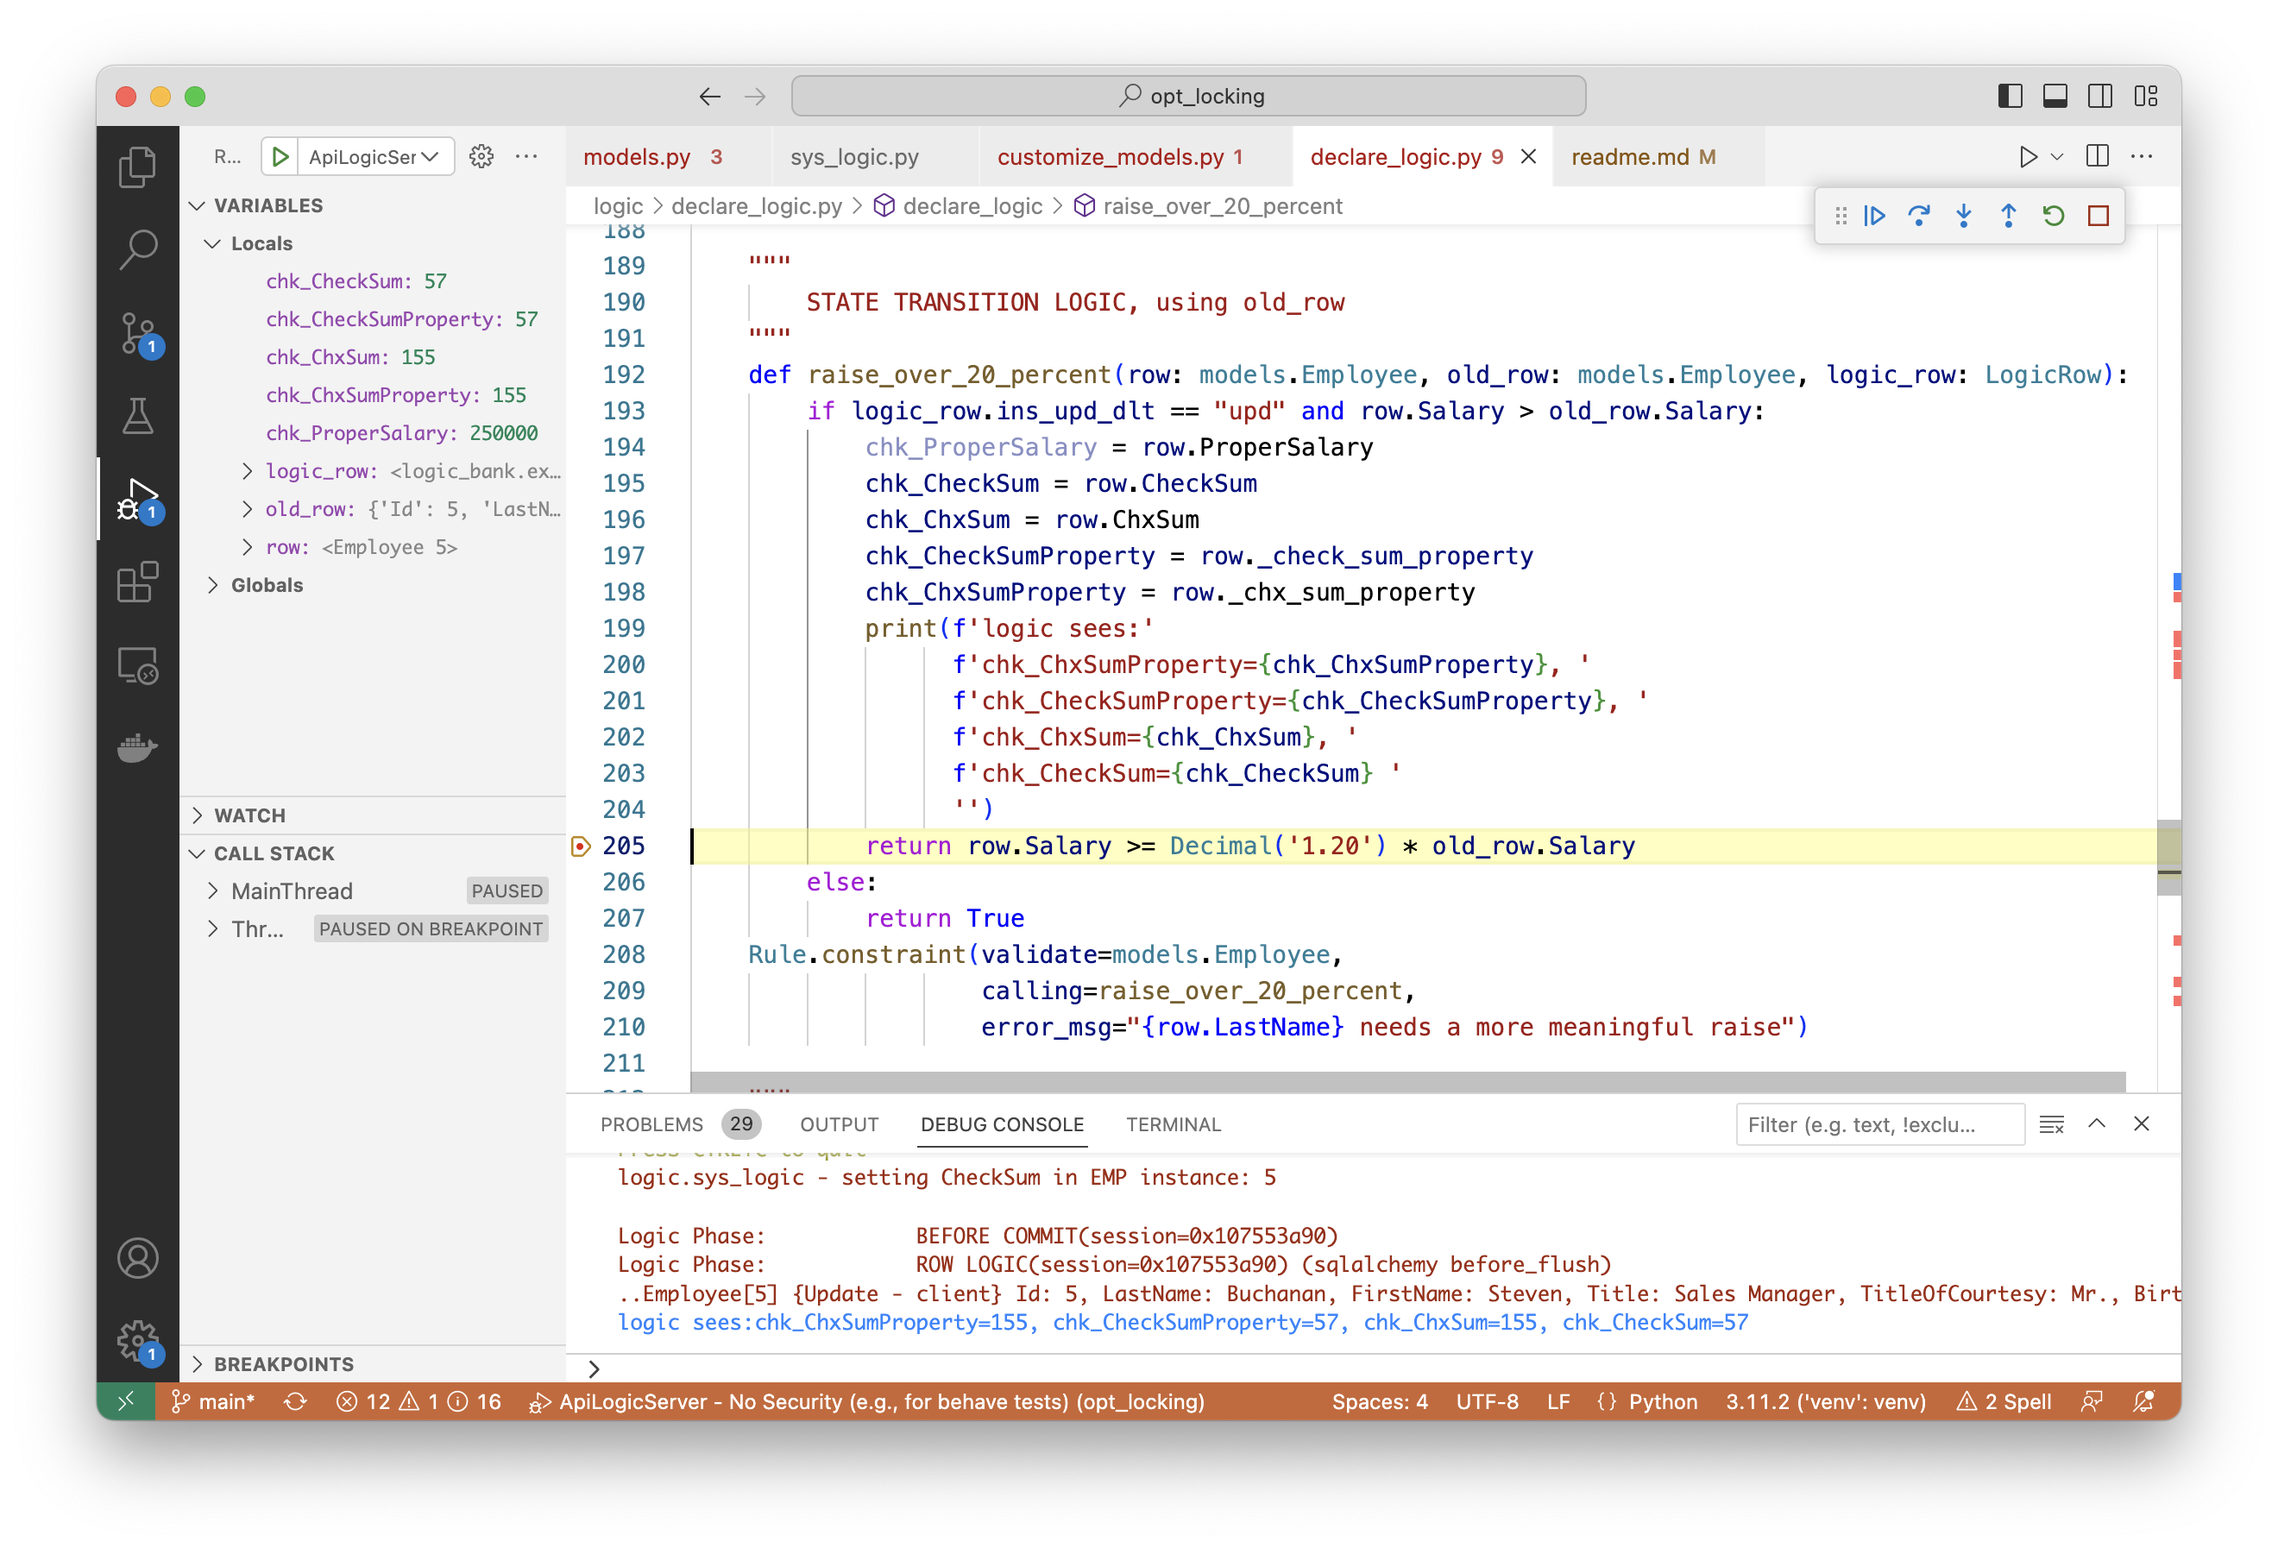
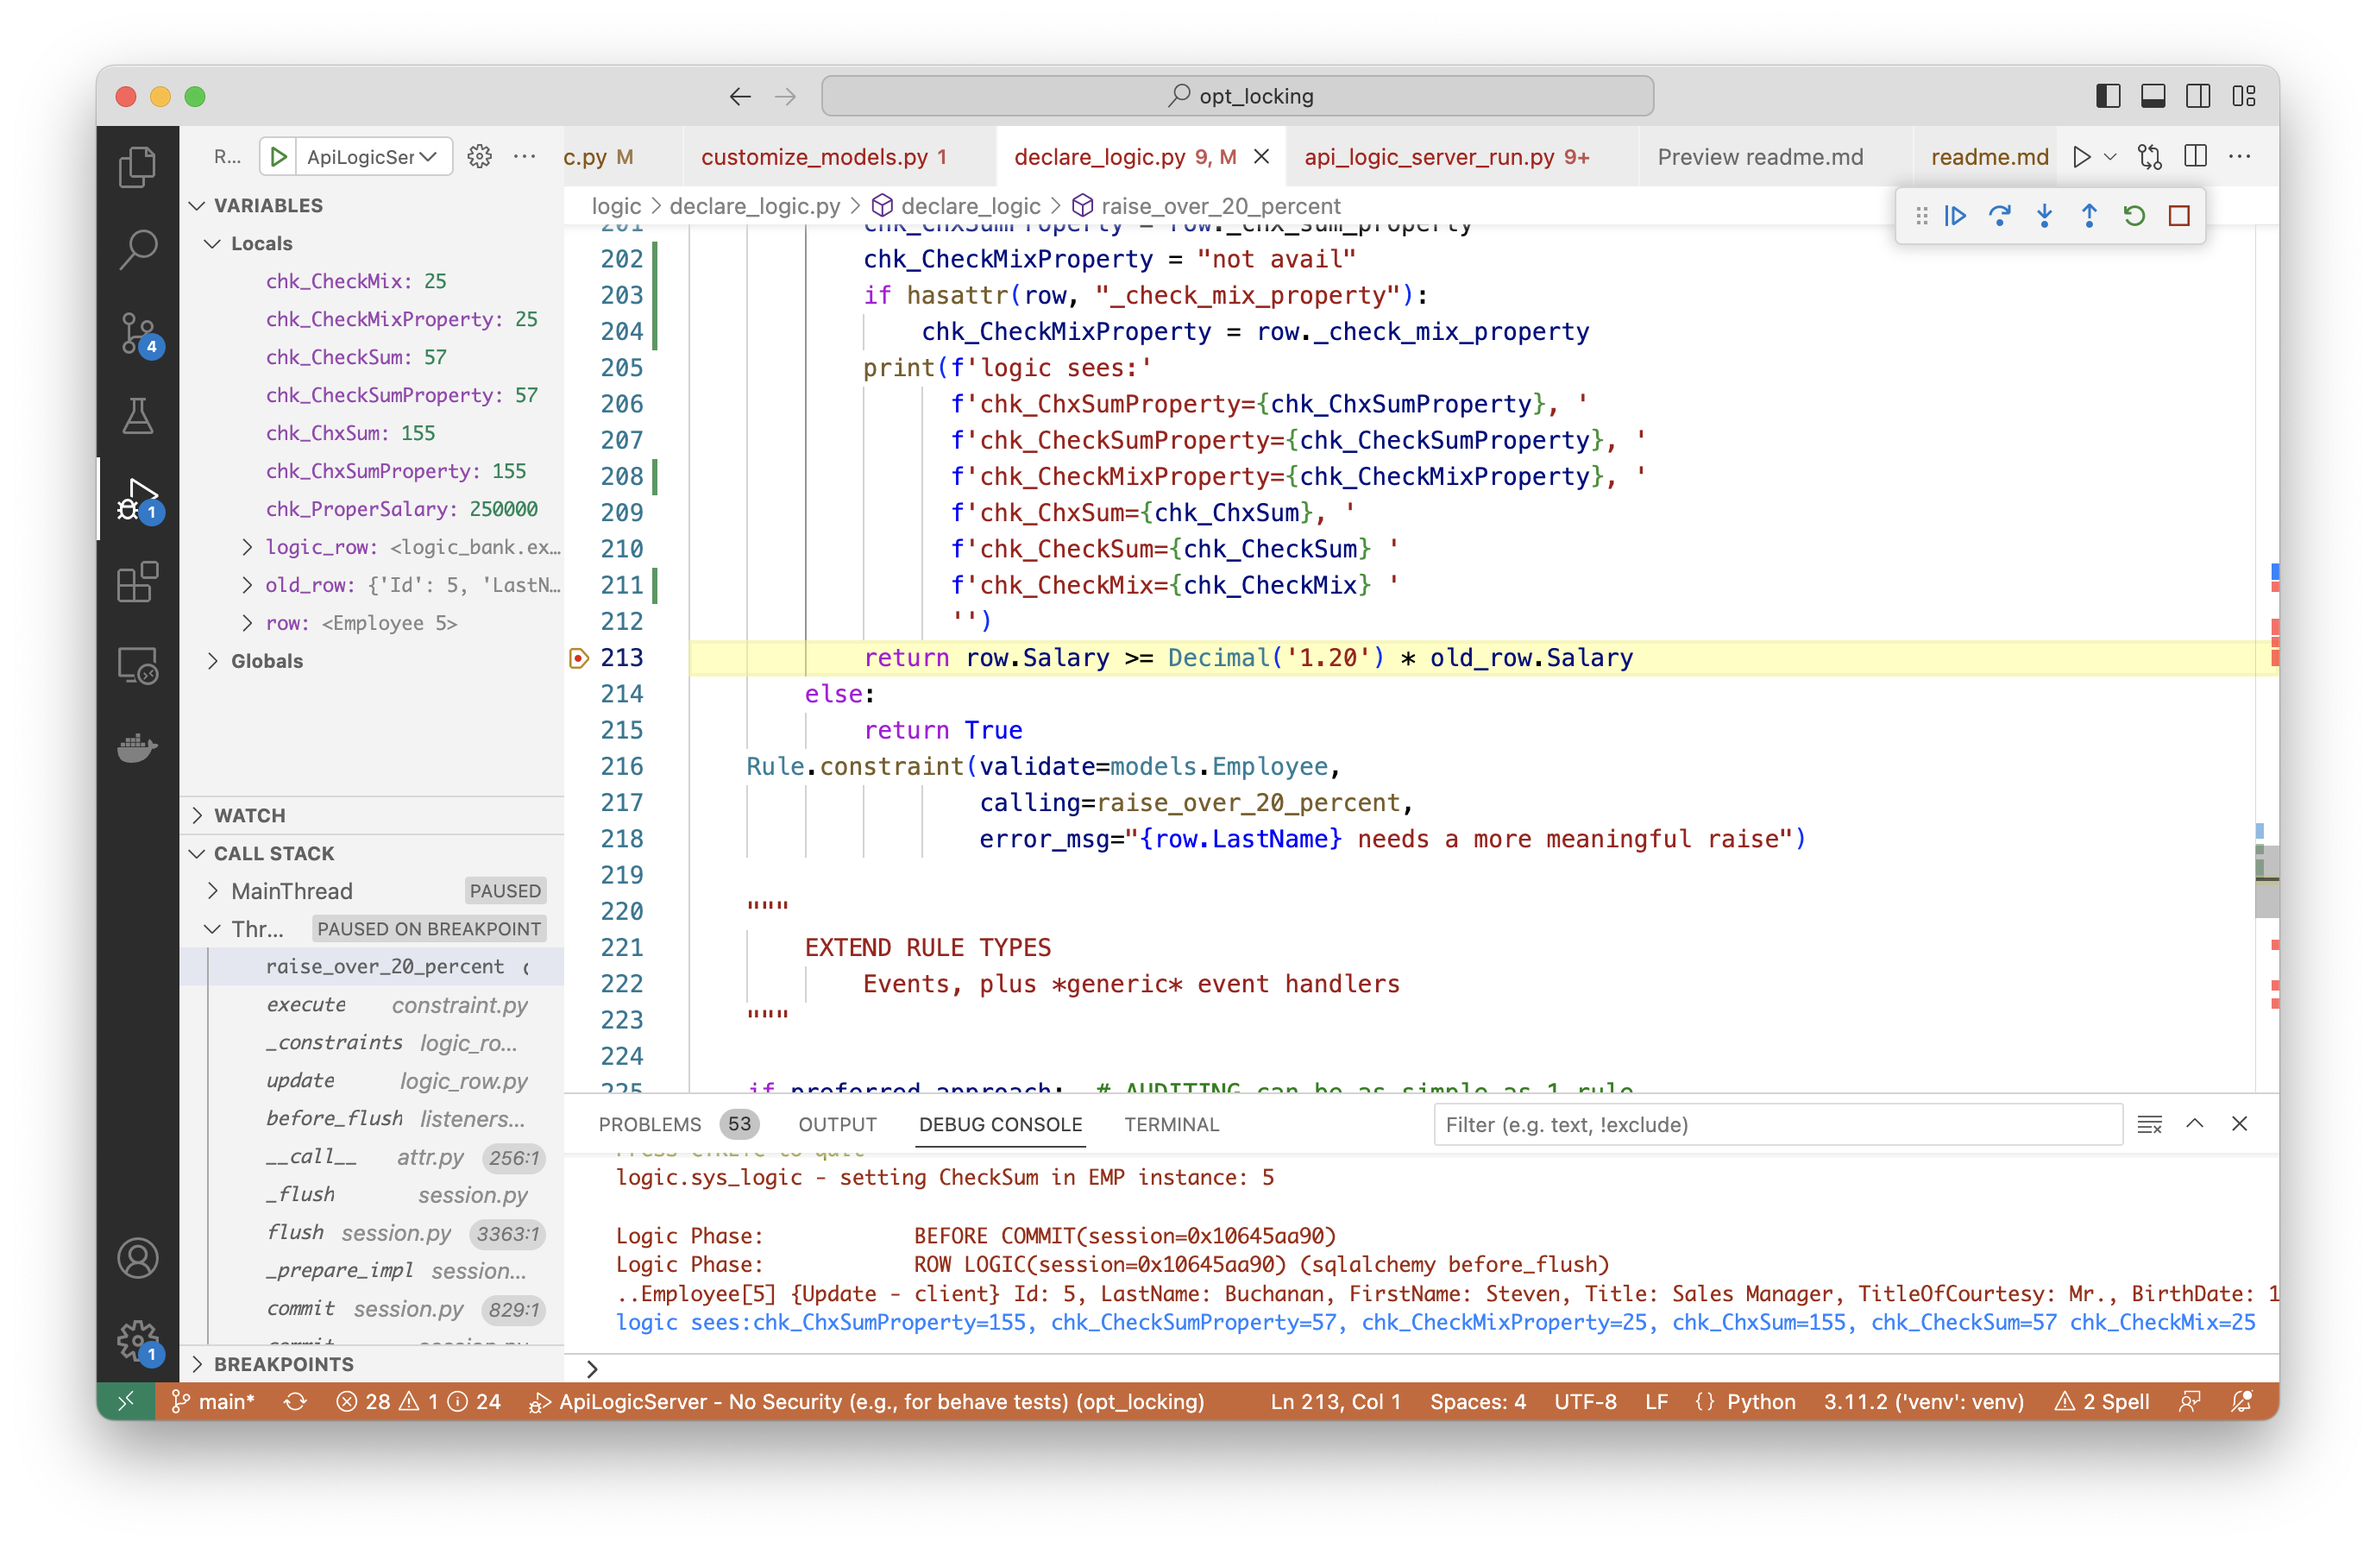
test mixin for checksum (appears to fail)

diff --git a/database/models.py b/database/models.py
@@ -66,27 +66,26 @@ class SAFRSBaseX(SAFRSBase):
                 result[key] = value
         return result  # self._s_jsonapi_attrs for overridden behavior
 
-    """  explore adding checksum generically
+    #   explore adding checksum generically
     # add derived attribute: https://github.com/thomaxxl/safrs/blob/master/examples/demo_pythonanywhere_com.py
     #@add_method(cls)
     @jsonapi_attr
-    def _check_sum_(self):  # type: ignore [no-redef]
-        import database.models as models
-        if isinstance(self, models.Employee):
-            return self.__check_sum__
+    def _check_mix_(self):  # type: ignore [no-redef]
+        if hasattr(self, "_check_mix_property"):
+            return self._check_mix_property
         else:
-            print("class")
+            # print("class")
             return None  # decimal.Decimal(10)
 
     #@add_method(cls)
-    @_check_sum_.setter
-    def _check_sum_(self, value):  # type: ignore [no-redef]
-        self._check_sum_ = value
-        print(f'__check_sum__={self._check_sum_}')
+    @_check_mix_.setter
+    def _check_mix_(self, value):  # type: ignore [no-redef]
+        self._check_mix_property = value
+        print(f'_check_mix_property = {self._check_mix_property}')
         pass
 
-    CheckSum = _check_sum_
-    """
+    CheckMix = _check_mix_
+    
     
 
 
@@ -264,7 +263,7 @@ t_sqlite_sequence = Table(
 )
 
 
-class Employee(SAFRSBase, Base):  # explore using SafrsBaseX
+class Employee(SAFRSBaseX, Base):  # explore using SafrsBaseX
     """
     This fails as a mixin 
     

diff --git a/logic/declare_logic.py b/logic/declare_logic.py
@@ -192,15 +192,23 @@ def declare_logic():
     def raise_over_20_percent(row: models.Employee, old_row: models.Employee, logic_row: LogicRow):
         if logic_row.ins_upd_dlt == "upd" and row.Salary > old_row.Salary:
             chk_ProperSalary = row.ProperSalary
-            chk_CheckSum = row.CheckSum
-            chk_ChxSum = row.ChxSum
+            chk_CheckSum = row.CheckSum     # inline
+            chk_ChxSum = row.ChxSum  #      # customize_models
+            chk_CheckMix = "not avail"  #   # mixin (SafrsBaseX)
+            if hasattr(row, "CheckMix"):
+                chk_CheckMix = row.CheckMix
             chk_CheckSumProperty = row._check_sum_property
             chk_ChxSumProperty = row._chx_sum_property
+            chk_CheckMixProperty = "not avail"
+            if hasattr(row, "_check_mix_property"):
+                chk_CheckMixProperty = row._check_mix_property
             print(f'logic sees:'
                   f'chk_ChxSumProperty={chk_ChxSumProperty}, '
                   f'chk_CheckSumProperty={chk_CheckSumProperty}, '
+                  f'chk_CheckMixProperty={chk_CheckMixProperty}, '
                   f'chk_ChxSum={chk_ChxSum}, '
                   f'chk_CheckSum={chk_CheckSum} '
+                  f'chk_CheckMix={chk_CheckMix} '
                   '')
             return row.Salary >= Decimal('1.20') * old_row.Salary
         else:

diff --git a/logic/sys_logic.py b/logic/sys_logic.py
@@ -24,6 +24,7 @@ def sys_logic_setup(session):
             logger.debug(f'{__name__} - setting CheckSum in EMP instance: {instance}')
             setattr(instance, "_chx_sum_property", 155)
             setattr(instance, "_check_sum_property", 55)
+            setattr(instance, "_check_mix_property", 25)
             # instance.CheckSum = 55  # later, figure out algorithm for this
         else:
             # todo discuss why SO many calls

diff --git a/readme.md b/readme.md
@@ -60,9 +60,12 @@ Though, `_check_sum_property` appears as an attr in json response.
 
 Additional choices remain - *where* to define:
 
-1. In `database/models.py` -- **inline**, in `Employees` **<=== seems to work??**
-2. In `database/models.py` -- in super class `SafrsBaseX` (test requires changes, not done)
+1. In `database/models.py` -- **inline**, in `Employees`
+    * **seems to work??**
+2. In `database/models.py` -- in super class `SafrsBaseX`
+    * not working
 3. In `database/customize_models.py`
+    * not working
 
 ## 3. Clients include read-checksum in `Patch`
 
@@ -79,10 +82,12 @@ curl -X 'PATCH' \
     "data": {
         "attributes": {
             "Salary": 200000,
-            "_chx_sum_property": 156,
-            "_check_sum_property": 56,
+            "_chx_sum_property": 157,
+            "_check_sum_property": 57,
+            "_check_mix_property": 27,
             "ChkSum": 157,
             "CheckSum": 57,
+            "CheckMix": 27,
             "Proper_Salary": 50000,
             "Id": 5},
         "type": "Employee",
@@ -98,10 +103,12 @@ Or, swagger payload:
     "data": {
         "attributes": {
             "Salary": 200000,
-            "_chx_sum_property": 156,
-            "_check_sum_property": 56,
+            "_chx_sum_property": 157,
+            "_check_sum_property": 57,
+            "_check_mix_property": 27,
             "ChkSum": 157,
             "CheckSum": 57,
+            "CheckMix": 27,
             "Proper_Salary": 50000,
             "Id": 5},
         "type": "Employee",
@@ -116,7 +123,7 @@ Or, swagger payload:
 
 We can test the various strategies, as follows:
 
-1. Set breakpoint @205 in `logic/declare_logic.py`
+1. Set breakpoint as shown in `logic/declare_logic.py`
 2. Use Run Config `ApiLogicServer - No Security`
 3. Simulate the client using the cURL above
 4. Observe the logged values - the **inline** approach appears to work
